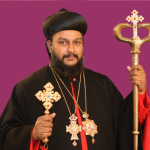
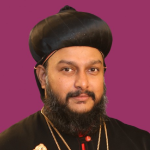
updates to about us members image

diff --git a/templates/about.html b/templates/about.html
@@ -186,8 +186,8 @@ section .section-title {
                             <div class="card">
                                 <div class="card-body text-center">
                                     <p><img class=" img-fluid" src="{% static 'images/bishop.png' %}" alt="Nithin Panicker"></p>
-                                    <h4 class="card-title">Archbishop</h4>
-                                    <p class="card-text">Archbishop, His Eminence Mor Titus Yeldho</p><p>&nbsp;</p>
+                                    <h4 class="card-title">His Eminence Mor Titus Yeldho</h4>
+                                    <p class="card-text">Archbishop, President of MGSOSA</p><p>&nbsp;</p>
                                     <a href="#" class="btn btn-primary btn-sm"><i class="fa fa-plus"></i></a>
                                 </div>
                             </div>
@@ -196,7 +196,7 @@ section .section-title {
                             <div class="card">
                                 <div class="card-body text-center mt-4">
                                     <h4 class="card-title">Archbishop</h4>
-                                    <p class="card-text">Born in 1970 to Pathickal P. M. Kuriakose and Sosamma, His Eminence belongs to the Perumbavoor Bethel Suloko Cathedral of the Ankamaly Diocese in India. </p>
+                                    <p class="card-text">His Eminence Mor Titus Yeldho is the Archbishop and Patriarchal Vicar for the Malankara Archdiocese since 2004, and the President of MGSOSA </p>
                                     <ul class="list-inline">
                                         <li class="list-inline-item">
                                             <a class="social-icon text-xs-center" target="_blank" href="#">

diff --git a/templates/donations.html b/templates/donations.html
@@ -30,9 +30,9 @@
         <h1 class="header-title mt-3" style="text-align:left;font-family: Kingthings Petrock;"> Donations </h1>
         {% include 'includes/breadcrumb.html' %}
         <hr>
-        <div class="col-sm-12" id="parent">
-            <div class="col-sm-12" style="float:left;padding-left:5px">
-                <p style="text-align:center;font-family: Kingthings Petrock;" class="content-p"><h1 class="header-title mt-3" style="text-align:left;font-family: Kingthings Petrock;">Coming Soon</h1></p>
+        <div class="col-sm-12 content-p" id="parent">
+            <div class="col-sm-12 ">
+                <p style="text-align:center;font-family: Kingthings Petrock;" class="content-p"><h1 class="header-title mt-3" style="text-align:center;font-family: Kingthings Petrock;">Coming Soon</h1></p>
             </div>
         </div>
     </div>
